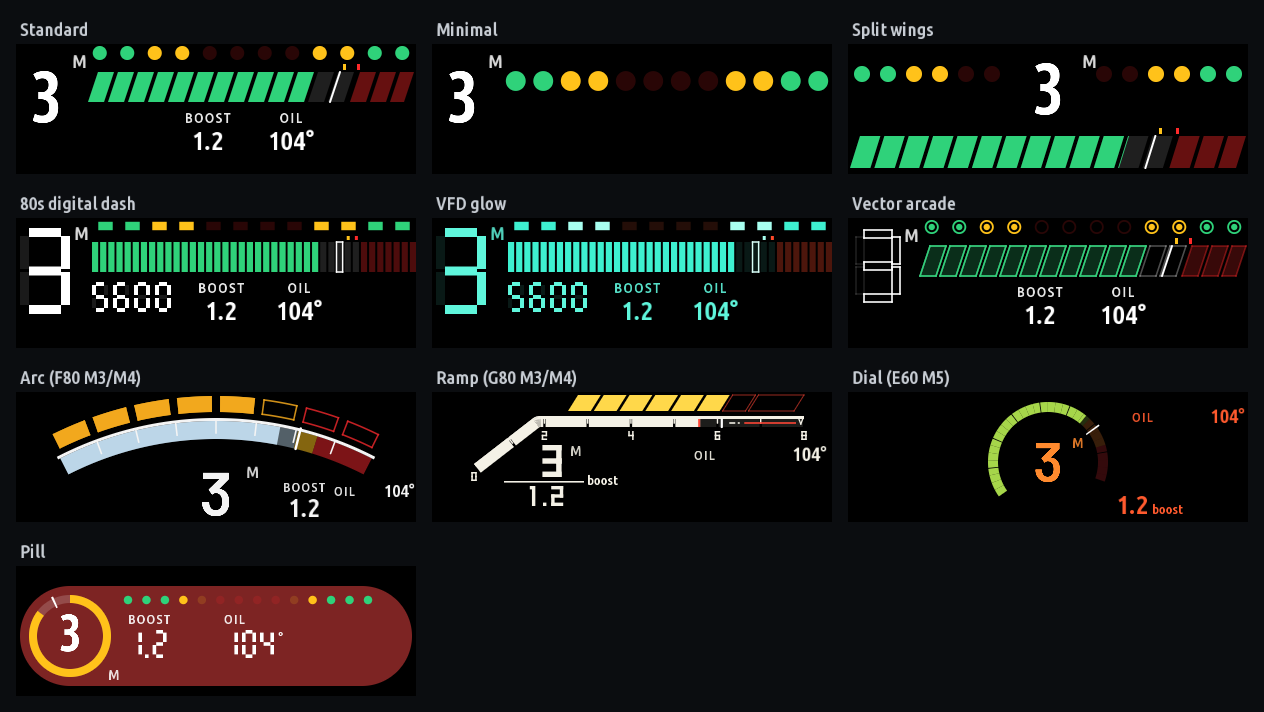
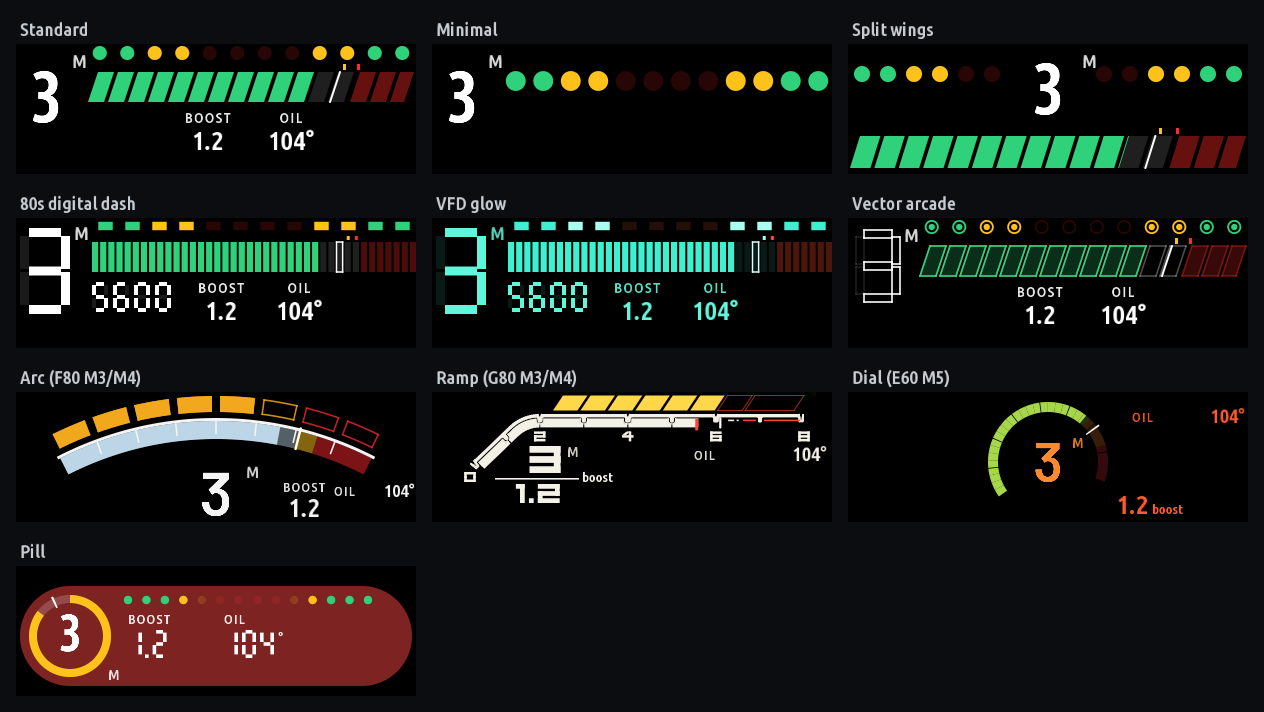
Redline 2.0.24: Ramp's gauge matched to the G80 frame by frame
- A solid rail with a rounded tab hanging every 1,000 rpm (straight walls, a
  round bottom); a V cut into the rail over the numbered marks (0, 2, 4, 6, 8),
  the odd marks' tabs a little narrower; each end an open cup.
- A hairline gap between rail and band that wraps each tab and splits the band
  under it; nothing drawn past the revs (no grey band).
- A wide knee, the climb at about 44 degrees, 2,000 rpm where the bend meets
  the flat; the band a little thicker.
- Wide, bold squared digits (about 1.2 times as wide as tall); the 4 closed.
- The red zone broken round the tabs and running into the 8's cup; a wider
  needle reaching under the band; the shift bars from about 2.3k, closer to
  the rail.
- The scaled HUD canvas gains stroke(); light test and power bar bounds
  follow the new geometry; README text, layout still and HUD gif redone.

Changed region(s): [[0.3703, 0.5562, 0.6479, 0.7107]]

diff --git a/apps/redline/hud-m.js b/apps/redline/hud-m.js
@@ -234,19 +234,20 @@ function drawArc(cv, f, layer, h) {
 /* ---------- ramp (G80) ---------- */
 /*
  * 2.0.21, redrawn from a video of the G80's own HUD. The gauge is one thick rail with no bottom edge: it climbs from
- * the 0 at bottom left, bends round a rounded knee at the 2 and runs flat to the end, a T notch hanging under it every
- * 1,000 rpm and a small V at each end. The rpm hangs under the rail as a cream band up to a red sliver; past it only
- * the rail shows. The red zone is a thin red line inside the band, after a dash and a dot. Over the flat part a row
+ * the 0 at bottom left, bends round a wide knee at the 2 and runs flat to the end, a rounded tab hanging from it every
+ * 1,000 rpm (a V cut over the numbered ones, an open cup at each end: rRail). The rpm hangs under the rail as a cream
+ * band up to a red sliver, a hairline gap round each tab (rBand); past it only the rail shows. The red zone is a thin red line inside the band, after a dash and a dot. Over the flat part a row
  * of 8 slanted bars counts in to the shift (6 yellow, 1 red, then a red one twice as wide) and flashes all red at it.
  * Digits are squared (sqText, our own), the gear left of centre over a line, the first readout under it.
  */
 // the rail's top edge: from (x0, y0) up to the knee (kx, ky), then flat to x1; rt the rail, ft the band under it,
 // kr the knee's radius
 // (the climb a little short of 2,000 rpm, so the 2 sits under the flat clear of it, as on the G80)
-const RP = { x0: 42, y0: 72, kx: 104, ky: 24, x1: 372, rt: 3, ft: 8, kr: 12 };
+// rt: where the band starts under the rail's top edge (the rail 2.4 px, then a 0.9 px gap, as on the glass)
+const RP = { x0: 38, y0: 72, kx: 90, ky: 22, x1: 372, rt: 4.4, ft: 9, kr: 44 };
 const RC = { line: '#f4f1e6', fill: '#f4f1e6', yellow: '#ffd84a', red: '#ff4636', text: '#f4f1e6' };
 // the lights over the flat part: 8 bars (the last twice as wide), leaning right by slant
-const RL = { x0: 136, x1: 372, y0: 3, y1: 19, gap: 3, slant: 10, n: 8 };
+const RL = { x0: 121, x1: 372, y0: 3.5, y1: 18.5, gap: 3, slant: 10, n: 8 };
 /** The rail's path (points, their normals pointing under it, the length to each), worked out once. */
 const RPATH = (() => {
     const P0 = [RP.x0, RP.y0], K = [RP.kx, RP.ky], E = [RP.x1, RP.ky];
@@ -254,7 +255,7 @@ const RPATH = (() => {
     const turn = Math.acos(u[0]), dk = RP.kr * Math.tan(turn / 2);
     const T1 = [K[0] - u[0] * dk, K[1] - u[1] * dk], C = [K[0] + dk, K[1] + RP.kr];
     const pts = [P0, T1];
-    const a0 = Math.atan2(T1[1] - C[1], T1[0] - C[0]), a1 = -Math.PI / 2, N = 6;
+    const a0 = Math.atan2(T1[1] - C[1], T1[0] - C[0]), a1 = -Math.PI / 2, N = 16;
     for (let i = 1; i <= N; i++) { const a = a0 + (a1 - a0) * i / N; pts.push([C[0] + RP.kr * Math.cos(a), C[1] + RP.kr * Math.sin(a)]); }
     pts.push(E);
     const len = [0];
@@ -285,20 +286,126 @@ function rStrip(cv, s0, s1, d0, d1, c) {
     const pts = [rAtS(s0)];
     RPATH.len.forEach((l, i) => { if (l > s0 + 0.01 && l < s1 - 0.01) { const p = RPATH.pts[i], n = RPATH.ptN[i]; pts.push([p[0], p[1], n[0], n[1]]); } });
     pts.push(rAtS(s1));
-    for (let i = 1; i < pts.length; i++) cv.quad([off(pts[i - 1], d0), off(pts[i], d0), off(pts[i], d1), off(pts[i - 1], d1)], c);
+    // (each quad reaches 0.4 px past an inner joint into the next: no hairline seams fanning round the knee)
+    const ext = (p, q, k) => { const dx = q[0] - p[0], dy = q[1] - p[1], l = Math.hypot(dx, dy) || 1; return [p[0] + dx / l * k, p[1] + dy / l * k, p[2], p[3]]; };
+    for (let i = 1; i < pts.length; i++) {
+        const a = i > 1 ? ext(pts[i - 1], pts[i], -0.4) : pts[i - 1], b = i < pts.length - 1 ? ext(pts[i], pts[i - 1], -0.4) : pts[i];
+        cv.quad([off(a, d0), off(b, d0), off(b, d1), off(a, d1)], c);
+    }
 }
 /** A short stroke across the band at s (from d0 to d1 px under the rail). */
 function rTick(cv, s, d0, d1, w, c) { const p = rAtS(s), a = off(p, d0), b = off(p, d1); cv.line(a[0], a[1], b[0], b[1], w, c); }
+/*
+ * The rail and band as on the G80's glass: a solid rail along the top; at every 1,000 rpm (and at each end) a small
+ * rounded tab hangs from it (straight sides, a round bottom, soft shoulders); under it a hairline gap, then the band
+ * (the revs). The gap runs round each tab and on down to the band's bottom as the split, so the dark line reads as a
+ * U with a stem under it. At the numbered marks (0, 2, 4, 6, 8) a small V is cut into the rail's top over the tab (the
+ * hollow); the 1,000s between have no V and a slightly narrower tab.
+ * RD: the rail's thickness; the tab's half-width (numbered, between), bottom corners' radius, depth under the rail and
+ * shoulder radius;
+ * the V's half-width and depth; the gap; the split's half-width.
+ */
+const RD = { rt: 3.4, uw: 2.7, uwOdd: 2.1, rb: 1.5, td: 4.8, rf: 0.3, vw: 1.5, vd: 3.0, endVw: 1.5, endVd: 6.4, gap: 1.0, split: 0.55 };
+const RW = RD.uw + RD.rf;     // a numbered tab's half-width with its shoulders (the widest)
+/** The marks along the rail: { s (px), big (numbered: a V and the wider tab) }, one every 1,000 rpm and one at each end. */
+function rMarks(max) {
+    const lab = max <= 9000 ? 2000 : 3000, m = [{ s: RW, big: true, end: true }];
+    for (let r = 1000; r < max; r += 1000) m.push({ s: rS(r, max), big: r % lab === 0 });
+    m.push({ s: RPATH.all - RW, big: true, end: true });
+    return m;
+}
+/** How far a tab reaches under the rail at t px from its middle: the round bottom, the straight sides, the shoulders. */
+function rTab(t, big) {
+    const a = Math.abs(t), uw = big ? RD.uw : RD.uwOdd, w = uw + RD.rf;
+    if (a <= uw - RD.rb) return RD.td;
+    if (a <= uw) { const k = a - (uw - RD.rb); return RD.td - RD.rb + Math.sqrt(RD.rb * RD.rb - k * k); }
+    if (a < w) return RD.rf - Math.sqrt(Math.max(0, RD.rf * RD.rf - (w - a) * (w - a)));
+    return 0;
+}
+/** The V cut into the rail's top at t px from a numbered mark's middle (0 beyond it). */
+// (soft: a cosine dip; at the ends a deep cup cut down through the tab, so the line ends in an open V / U)
+const rVee = (t, m) => { const w = m.end ? RD.endVw : RD.vw, d = m.end ? RD.endVd : RD.vd; return Math.abs(t) < w ? d * (1 + Math.cos(Math.PI * t / w)) / 2 : 0; };
+/** The tabs grown by the gap: where the band's top must stay (px under the rail's bottom) at s. */
+function rTabGap(ms, s) {
+    let best = 0;
+    ms.forEach((m) => {
+        if (Math.abs(s - m.s) > RW + RD.gap) return;
+        for (let k = -4; k <= 4; k++) { const du = RD.gap * k / 4; best = Math.max(best, rTab(s - m.s + du, m.big) + Math.sqrt(RD.gap * RD.gap - du * du) - RD.gap); }
+    });
+    return best;
+}
+/** The points s0..s1 along the rail to draw through: its bends, and every 0.2 px across a tab. */
+function rSamples(ms, s0, s1) {
+    const ss = [s0, s1];
+    RPATH.len.forEach((l) => { if (l > s0 && l < s1) ss.push(l); });
+    ms.forEach((m) => {
+        for (let v = Math.max(s0, m.s - RW - RD.gap); v <= Math.min(s1, m.s + RW + RD.gap); v += 0.2) ss.push(v);
+        const uw = m.big ? RD.uw : RD.uwOdd;
+        [-uw - 0.02, -uw + 0.02, uw - 0.02, uw + 0.02].forEach((d) => { if (m.s + d > s0 && m.s + d < s1) ss.push(m.s + d); });
+    });
+    return ss.sort((p, q) => p - q).filter((v, i, a) => i === 0 || v - a[i - 1] > 0.05);
+}
+/** A strip s0..s1 whose top (d0) and bottom (d1) are functions of s, as quads each reaching 0.8 px into the next. */
+function rStripF(cv, ss, d0, d1, c) {
+    for (let k = 1; k < ss.length; k++) {
+        // (0.8 px where the edges run straight on, 0.35 px round a curve, none across a wall: there it would slant it)
+        const end = ss[ss.length - 1], at = (r) => Math.min(end, ss[k] + r);
+        const step = (r) => Math.max(Math.abs(d0(at(r)) - d0(ss[k])), Math.abs(d1(at(r)) - d1(ss[k])));
+        const reach = k === ss.length - 1 ? 0 : step(0.8) < 0.05 ? 0.8 : step(0.35) < 0.6 ? 0.35 : 0;
+        const p0 = ss[k - 1], p1 = at(reach), q0 = rAtS(p0), q1 = rAtS(p1);
+        if (d1(p0) - d0(p0) < 0.05 && d1(p1) - d0(p1) < 0.05) continue;
+        cv.quad([off(q0, d0(p0)), off(q1, d0(p1)), off(q1, d1(p1)), off(q0, d1(p0))], c);
+    }
+}
+/**
+ * A strip a..b from d0 (a function of s near the marks ms, plain0 elsewhere) to d1: plain strips away from the marks
+ * (clean edges), rStripF within z px of one (the shaped edge).
+ */
+function rStripZ(cv, ms, a, b, z, d0, plain0, d1, c) {
+    let v = a;
+    ms.filter((m) => m.s + z > a && m.s - z < b).forEach((m) => {
+        const z0 = Math.max(a, m.s - z), z1 = Math.min(b, m.s + z);
+        if (z0 > v) rStrip(cv, v, z0 + 0.4, plain0, d1, c);
+        rStripF(cv, rSamples([m], z0, z1), d0, () => d1, c);
+        v = z1 - 0.4;
+    });
+    if (b > v) rStrip(cv, Math.max(a, v), b, plain0, d1, c);
+}
+function rRail(cv, max, c) {
+    const ms = rMarks(max), big = ms.filter((m) => m.big);
+    // the rail, its top cut into a V at the numbered marks
+    const vee = (v) => big.reduce((a, m) => Math.max(a, rVee(v - m.s, m)), 0);
+    rStripZ(cv, big, 0, RPATH.all, RW + 0.5, (v) => Math.min(RD.rt, vee(v)), 0, RD.rt, c);
+    // the tabs (from a hair inside the rail, so they join it seamlessly)
+    ms.forEach((m) => rStripF(cv, rSamples([m], m.s - RW, m.s + RW), (v) => Math.max(RD.rt - 0.6, vee(v)), (v) => Math.max(vee(v), RD.rt + rTab(v - m.s, m.big)), c));
+}
+/** The band up to s1 (the revs), split at each mark; its top keeps the gap to the rail and round each tab. */
+function rBand(cv, s1, max, c) {
+    const ms = rMarks(max), D1 = RP.rt + RP.ft, top = (v) => Math.min(D1, RD.rt + RD.gap + rTabGap(ms, v));
+    const L = RD.rt + RD.gap + RD.td + 0.6;
+    for (let i = 0; i < ms.length - 1; i++) {
+        // (the ends' tabs: the band starts and stops clear of them, no split piece under them)
+        const a = i === 0 ? ms[0].s + RW + RD.gap : ms[i].s + RD.split;
+        const b = Math.min(s1, i === ms.length - 2 ? ms[i + 1].s - RW - RD.gap : ms[i + 1].s - RD.split);
+        if (b <= a) continue;
+        // under the tabs' reach one clean strip; above it, plain where no tab is near and following the tabs where one is
+        rStrip(cv, a, b, L, D1, c);
+        rStripZ(cv, ms, a, b, RW + RD.gap + 0.3, top, RP.rt, L + 0.6, c);
+    }
+}
 
 /*
  * Squared digits (our own drawing, after the G80's look): 7-segment strokes joined at the corners, solid, plus
  * N P R D M S. h tall, a width of 0.6 h, the stroke t. Returns false (drawing nothing) for a character it has no
  * shape for.
  */
-const SQ = { 0: 'abcdef', 2: 'abged', 3: 'abgcd', 4: 'fgbc', 5: 'afgcd', 6: 'afgedc', 7: 'abc', 8: 'abcdefg', 9: 'abfgcd', '-': 'g', S: 'afgcd', P: 'abfge', N: 'efbc', R: 'abfge', M: 'efabc', D: 'abcdef' };
+const SQ = { 0: 'abcdef', 2: 'abged', 3: 'abgcd', 4: 'g', 5: 'afgcd', 6: 'afgedc', 7: 'abc', 8: 'abcdefg', 9: 'abfgcd', '-': 'g', S: 'afgcd', P: 'abfge', N: 'efbc', R: 'abfge', M: 'efabc', D: 'abcdef' };
+/** A character's width at h: wide (the G80's digits are about 1.2 times as wide as tall); a 1 and a dot narrow. */
+const sqAdv = (ch, h) => (ch === '.' ? sqT(h) : ch === '1' ? h * 0.55 : h * 1.15);
+const sqT = (h) => Math.max(1.9, h * 0.25);
 function sqGlyph(cv, ch, x, y, h, c) {
-    const w = h * 0.6, t = Math.max(1.4, h * 0.17), hh = h / 2;
-    if (ch === '1') { cv.fillRect(x + w * 0.62 - t / 2, y, t, h, c); cv.fillRect(x + w * 0.3, y, w * 0.32, t, c); return true; }
+    const w = sqAdv(ch, h), t = sqT(h), hh = h / 2;
+    if (ch === '1') { cv.fillRect(x + w - t, y, t, h, c); cv.fillRect(x + w * 0.15, y, w * 0.85, t, c); return true; }
     const on = SQ[ch];
     if (on === undefined) return false;
     const R = {
@@ -314,12 +421,19 @@ function sqGlyph(cv, ch, x, y, h, c) {
     // N, R: a diagonal; M: a stem down the middle
     const diag = (x0, y0, x1, y1) => cv.quad([[x0, y0], [x0 + t * 1.1, y0], [x1, y1], [x1 - t * 1.1, y1]], c);
     if (ch === 'N') diag(x + t * 0.4, y, x + w - t * 0.4, y + h);
-    if (ch === 'R') diag(x + w * 0.35, y + hh, x + w - t * 0.1 + t * 0.55, y + h);
+    if (ch === 'R') diag(x + w * 0.35, y + hh, x + w + t * 0.45, y + h);
     if (ch === 'M') cv.fillRect(x + w / 2 - t / 2, y, t, hh, c);
+    // 4: a slant from the right stem's top down to the bar's left end (the G80's closed 4)
+    if (ch === '4') {
+        const sx = x + w * 0.8 - t;     // the stem, with the bar running past it
+        cv.fillRect(sx, y, t, h, c);
+        cv.quad([[sx - t * 0.9, y], [sx + t * 0.6, y], [x + t * 1.6, y + hh - t / 2], [x, y + hh - t / 2]], c);
+    }
     return true;
 }
+const SQ_GAP = 0.22;
 /** The width sqText takes for str at h. */
-const sqWidth = (str, h) => { const n = String(str).length; return n ? n * h * 0.6 + (n - 1) * h * 0.24 - (String(str).indexOf('.') >= 0 ? h * 0.5 : 0) : 0; };
+const sqWidth = (str, h) => { str = String(str); let w = 0; for (const ch of str) w += sqAdv(ch, h); return str.length ? w + (str.length - 1) * h * SQ_GAP : 0; };
 /**
  * str in squared digits, top at y, h tall, from x (align 'left' | 'center' | 'right'). Characters it has no shape
  * for end it: the rest is drawn in the bold font (a unit such as °).
@@ -333,11 +447,10 @@ function sqText(cv, str, x, y, h, c, align) {
     const wAll = sqWidth(head, h) + tailW;
     let px = align === 'center' ? x - wAll / 2 : align === 'right' ? x - wAll : x;
     for (const ch of head) {
-        if (ch === '.') { const t = Math.max(1.4, h * 0.17); cv.fillRect(px, y + h - t, t, t, c); px += t + h * 0.24; continue; }
-        sqGlyph(cv, ch, px, y, h, c);
-        px += h * 0.6 + h * 0.24;
+        if (ch === '.') cv.fillRect(px, y + h - sqT(h), sqT(h), sqT(h), c); else sqGlyph(cv, ch, px, y, h, c);
+        px += sqAdv(ch, h) + h * SQ_GAP;
     }
-    if (tail) cv.text(tail, px - h * 0.24 + 2, y + h * 0.6, h * 0.6, c, { font: 'bold' });
+    if (tail) cv.text(tail, px - h * SQ_GAP + 2, y + h * 0.6, h * 0.6, c, { font: 'bold' });
 }
 
 /*
@@ -376,44 +489,41 @@ function drawRamp(cv, f, layer, h) {
     const meter = (f.readouts || []).filter((it) => it.bar)[0];
     // with the meter under the band, the scale and everything under it 5 px lower
     const dn = meter ? 5 : 0, sq = o.gearFont === 'square';
-    const D0 = RP.rt, D1 = RP.rt + RP.ft, GAP = 1.2;
+    const D0 = RP.rt, D1 = RP.rt + RP.ft;
     // the gauge: Rev bar off leaves the lights and the gear (the lights are their own row since 2.0.21)
     if (o.bar !== false) {
         if (BG) {
-            // the rail, its notches and the V at each end
-            rStrip(cv, 0, RPATH.all, 0, RP.rt, RC.line);
-            for (let r = 1000; r < max; r += 1000) rTick(cv, rS(r, max), RP.rt - 0.5, RP.rt + 4, 1.5, RC.line);
-            // a small V hooked under the rail at each end, from the rail's middle and inside its length, so no cap
-            // sticks out past it (the 0's is under the band once it's lit, as on the G80)
-            [0.7, RPATH.all - 5.7].forEach((s) => {
-                const a = off(rAtS(s), RP.rt / 2), b = off(rAtS(s + 5), RP.rt / 2), tip = off(rAtS(s + 2.5), RP.rt + 5);
-                cv.line(a[0], a[1], tip[0], tip[1], 1.3, RC.line);
-                cv.line(b[0], b[1], tip[0], tip[1], 1.3, RC.line);
-            });
-            if (o.dim) for (let r = 0; r < max; r += 1000) rStrip(cv, rS(r, max) + GAP, rS(Math.min(max, r + 1000), max) - GAP, D0, D1, withAlpha(RC.line, 0.12));
+            // the rail, its notches and the V at each end all one line; under it nothing until the revs reach it (clear,
+            // as on the G80: no grey band)
+            rRail(cv, max, RC.line);
             // the red zone: a thin red line inside the band from the redline, after a dash and a dot
-            const zs = rS(f.redline, max), zm = (D0 + D1) / 2;
+            const zs = rS(f.redline, max), zm = D0 + 2;
             if (zs < RPATH.all - 6) {
-                rStrip(cv, zs + 3, RPATH.all - 8, zm - 0.8, zm + 0.8, RC.red);
-                rStrip(cv, zs - 12, zs - 6, zm - 0.8, zm + 0.8, RC.line);
-                rStrip(cv, zs - 3.5, zs - 1.5, zm - 0.8, zm + 0.8, RC.line);
+                // (each piece broken round any tab it would cross, so a tab stands clear of it)
+                const ms = rMarks(max), clear = RW + RD.gap;
+                const seg = (a, b, col) => {
+                    let v = a;
+                    const piece = (p, q) => { if (q - p >= 3 || col !== RC.red) rStrip(cv, p, q, zm - 0.8, zm + 0.8, col); };
+                    ms.filter((m) => !m.end && m.s + clear > a && m.s - clear < b).forEach((m) => { if (m.s - clear > v) piece(v, m.s - clear); v = Math.max(v, m.s + clear); });
+                    if (b > v) piece(v, b);
+                };
+                seg(zs + 3, RPATH.all - RW - RD.endVw + 0.4, RC.red);
+                seg(zs - 12, zs - 6, RC.line);
+                seg(zs - 3.5, zs - 1.5, RC.line);
             }
             // the scale under the band; the 0 under the climb's start
             const lab = max <= 9000 ? 2000 : 3000;
             for (let r = 0; r <= max; r += lab) {
                 const p = rAtS(rS(r, max)), x = r === 0 ? p[0] : p[0], y = r === 0 ? p[1] + 8 + dn : RP.ky + D1 + 4 + dn;
-                sqText(cv, String(r / 1000), x, y, 9, RC.text, 'center');
+                sqText(cv, String(r / 1000), x, y, 10, RC.text, 'center');
             }
         }
         if (fg && isNum(d.rpm) && d.rpm > 50) {
             // the rpm: the band under the rail, split at the notches, a red sliver at its end
             const top = Math.min(d.rpm, max), st = rS(top, max);
             const pop = burstOn(f.chip, 300) ? chipCol(f.chip, h.P) : null, c = pop || RC.fill;
-            for (let r = 0; r < top; r += 1000) {
-                const a = rS(r, max) + (r > 0 ? GAP : 0), b = Math.min(st, rS(Math.min(max, r + 1000), max) - GAP);
-                if (b > a) rStrip(cv, a, b, pop ? D0 : 0, D1, c);
-            }
-            if (st > 3) rStrip(cv, st - 2, st, D0, D1, RC.red);
+            rBand(cv, st, max, c);
+            if (st > 3) rStrip(cv, st - 3, st, D0, D1 + 3, RC.red);
         }
         if (fg && isNum(f.peak) && f.peak > 0 && !(isNum(d.rpm) && d.rpm >= f.peak - 50)) rTick(cv, rS(Math.min(f.peak, max), max), D0, D1, 2.2, '#ffffff');
     }
@@ -431,26 +541,26 @@ function drawRamp(cv, f, layer, h) {
     }
     if (meter) rampMeter(cv, meter.bar, h.P, layer, max);
     if (!fg) return;
-    const gx = 120, gy = 53 + dn, items = (f.readouts || []).filter((it) => !it.bar);
+    const gx = 113, gy = 54 + dn, items = (f.readouts || []).filter((it) => !it.bar);
     if (f.chip) ring(cv, gx, gy + 16, 20, 50, f.chip, h.P);
     // readouts 2-4: a list on the right, label left and value right
     [1, 2, 3].forEach((i, k) => { if (items[i]) small(cv, 262, 68 + dn + k * 21, items[i], h.P, o, RC.text, 'row', 132); });
     const gearC = cue.limiter && f.blink ? RC.red : RC.text;
     if (o.gear) {
-        if (sq) sqText(cv, h.gearText(d), gx, gy, 32, gearC, 'center');
+        if (sq) sqText(cv, h.gearText(d), gx, gy, 27, gearC, 'center');
         else cv.text(h.gearText(d), gx, gy + 32, 42, gearC, { align: 'center', font: h.gearFont(o) });
     }
-    if (f.mode && o.gear) cv.text(f.mode, gx + 18, gy + 11, 14, withAlpha(RC.text, 0.85), { font: 'bold' });
-    cv.fillRect(gx - 48, gy + 36, 80, 1.6, RC.text);
+    if (f.mode && o.gear) cv.text(f.mode, gx + 22, gy + 11, 14, withAlpha(RC.text, 0.85), { font: 'bold' });
+    cv.fillRect(gx - 50, gy + 32, 84, 1.6, RC.text);
     h.drawDown(cv, gx + 58, gy + 6, f.down || 0, 1, h.P.arrow);
     if (f.chip) grade(cv, gx, gy + 62, f.chip, h.P, 22);
     else {
         const it = items[0];
         if (it) {
             const vc = toneCol(it, h.P, RC.text);
-            if (sq) sqText(cv, it.value, gx - 8, gy + 41, 20, vc, 'center');
+            if (sq) sqText(cv, it.value, gx - 8, gy + 38, 19, vc, 'center');
             else cv.text(it.value, gx - 8, gy + 62, 22, vc, { align: 'center', font: o.valFont || 'bold' });
-            fitLabel(cv, it.label.toLowerCase(), gx + 35, gy + 40, labelOf(o, RC.text).s, RC.text, 262 - gx - 40, { spacing: 0 });
+            fitLabel(cv, it.label.toLowerCase(), gx + 37, gy + 36, labelOf(o, RC.text).s, RC.text, 262 - gx - 40, { spacing: 0 });
         }
     }
 }

diff --git a/kit/tools/test_redline_hud.js b/kit/tools/test_redline_hud.js
@@ -415,9 +415,9 @@ for (let t = 0; t < Hud.DEMO_MS * 3; t += 37) {
             const cv = new Canvas(Draw.IW, Draw.IH);
             Draw.drawLayer(cv, { d: { rpm: rpm, gear: 3, stage: 'M' }, shift: 6400, redline: 6800, max: 8000, blink: blink !== false,
                 cue: { from: 4800, at: 6400, shift: !!shift, limiter: false }, down: 0, peak: 0, chip: null, readouts: [], mode: null, opts: ro }, 'fg');
-            // each bar's middle: x from 136 to 372, the last twice as wide; y 11
-            const unit = (372 - 136 - 10 - 7 * 3) / 9, out = [];
-            for (let i = 0, x = 136; i < 8; i++) { const w = i === 7 ? 2 * unit : unit; const px = Math.round(x + w / 2 + 5), o = (11 * cv.w + px) * 4;
+            // each bar's middle: x from 121 to 372, the last twice as wide; y 11
+            const unit = (372 - 121 - 10 - 7 * 3) / 9, out = [];
+            for (let i = 0, x = 121; i < 8; i++) { const w = i === 7 ? 2 * unit : unit; const px = Math.round(x + w / 2 + 5), o = (11 * cv.w + px) * 4;
                 out.push(cv.d[o + 3] < 128 ? '.' : cv.d[o] > 200 && cv.d[o + 1] < 120 ? 'R' : cv.d[o] > 200 && cv.d[o + 1] > 180 && cv.d[o + 2] < 140 ? 'Y' : '?'); x += w + 3; }
             return out.join('');
         };
@@ -429,7 +429,7 @@ for (let t = 0; t < Hud.DEMO_MS * 3; t += 37) {
         ok(bar(6500, true, true) === 'RRRRRRRR' && bar(6500, true, false) === '........', 'ramp: all red at the shift, flashing (' + bar(6500, true, true) + ' / ' + bar(6500, true, false) + ')');
         const noLights = Object.assign({}, ro, { lights: false }), cv = new Canvas(Draw.IW, Draw.IH);
         Draw.drawLayer(cv, { d: { rpm: 6400, gear: 3, stage: 'M' }, shift: 6400, redline: 6800, max: 8000, blink: true, cue: { from: 4800, at: 6400, shift: false, limiter: false }, down: 0, peak: 0, chip: null, readouts: [], mode: null, opts: noLights }, 'fg');
-        let any = 0; for (let y = 2; y < 20; y++) for (let x = 136; x < 372; x++) if (cv.d[(y * cv.w + x) * 4 + 3] > 128) any++;
+        let any = 0; for (let y = 2; y < 20; y++) for (let x = 121; x < 372; x++) if (cv.d[(y * cv.w + x) * 4 + 3] > 128) any++;
         ok(any === 0, 'ramp: HUD lights Off hides the bars');
     }
     // placement and the windshield's window

diff --git a/kit/tools/test_redline_powerbar.js b/kit/tools/test_redline_powerbar.js
@@ -74,7 +74,7 @@ const mostly = (cols, col) => cols.length > 0 && cols.filter((c) => isCol(c, col
     {
         const a = layer(frame('ramp', [BO, pw(-20), OIL]), 'bg'), b = layer(frame('ramp', [BO, OIL]), 'bg');
         const d = diff(a, b, 0, 129);
-        ok(d.n > 0 && d.maxX <= 375, 'ramp bg: only the meter track differs (x ' + d.minX + '..' + d.maxX + ')');
+        ok(d.n > 0 && d.maxX <= 380, 'ramp bg: only the meter track differs (x ' + d.minX + '..' + d.maxX + ')');
         // fg: the gear and the list move 5 px down with the meter, clear of it
         const top = (cv, x0, x1) => { for (let y = 0; y < cv.h; y++) for (let x = x0; x < x1; x++) if (y > 36 && cv.d[(y * cv.w + x) * 4 + 3] > 128) return y; return -1; };
         const fa = layer(frame('ramp', [BO, pw(0), OIL]), 'fg'), fb = layer(frame('ramp', [BO, OIL]), 'fg');
@@ -85,7 +85,7 @@ const mostly = (cols, col) => cols.length > 0 && cols.filter((c) => isCol(c, col
     const rec = fill(-20), pwr = fill(40), full = fill(80), none = fill(0);
     ok(none.n === 0, 'ramp: 0 kW fills nothing');
     ok(rec.n > 0 && rec.maxX <= 116 && rec.minX >= 60 && rec.cols.filter((c) => isCol(c, P.low)).length >= 20, 'ramp: -20 kW fills half way down the climb, green (x ' + rec.minX + '..' + rec.maxX + ')');
-    ok(pwr.n > 0 && pwr.minX >= 100 && pwr.maxX > 220 && pwr.maxX < 250 && mostly(pwr.cols.filter((c) => c[3] > 200), '#f4f1e6'), 'ramp: +40 kW fills half way along the flat (x ' + pwr.minX + '..' + pwr.maxX + ')');
+    ok(pwr.n > 0 && pwr.minX >= 90 && pwr.maxX > 220 && pwr.maxX < 250 && mostly(pwr.cols.filter((c) => c[3] > 200), '#f4f1e6'), 'ramp: +40 kW fills half way along the flat (x ' + pwr.minX + '..' + pwr.maxX + ')');
     // (a 4 px strip: judged on its solid pixels, the edges are half blended)
     ok(full.maxX >= 370 && mostly(full.cols.filter((c) => c[3] > 200), '#ffd84a'), 'ramp: +80 kW fills the flat to the end, yellow');
     ok(fill(-100).minX >= 40 && fill(200).maxX <= 375, 'ramp: beyond lo / hi stays inside the track');

diff --git a/apps/redline/hud-draw.js b/apps/redline/hud-draw.js
@@ -507,6 +507,8 @@ function scaled(r, k, ox, oy) {
         fillRect: (x, y, w, h, c) => r.fillRect(X(x), Y(y), w * k, h * k, c),
         quad: (pts, c) => r.quad(P(pts), c),
         polyline: (pts, w, c) => r.polyline(P(pts), w * k, c),
+        // a path with round joins (Ramp's rail); a plain polyline where the canvas has no stroke
+        stroke: (pts, w, c) => (r.stroke ? r.stroke(P(pts), w * k, c) : r.polyline(P(pts), w * k, c)),
         line: (xa, ya, xb, yb, w, c) => r.line(X(xa), Y(ya), X(xb), Y(yb), w * k, c),
         text: (s, x, y, size, c, o) => r.text(s, X(x), Y(y), size * k, c, o && o.spacing ? Object.assign({}, o, { spacing: o.spacing * k }) : o),
         roundRect: (x, y, w, h, rad, c) => r.roundRect(X(x), Y(y), w * k, h * k, rad * k, c),

diff --git a/apps/redline/README.md b/apps/redline/README.md
@@ -82,9 +82,11 @@ Three layouts after BMW M's own head-up displays, in their colours (*Colours* do
   1000 rpm, ending in a yellow then red zone; the gear big under it. Readouts: the first beside the
   gear, two more at the far right, a fourth high on the left.
 - **Ramp** (after the G80 / G82 M3 and M4, redrawn in 2.0.21 from a video of the car's HUD): a thick
-  rail climbs from the 0 at the bottom left, bends round at the 2 and runs flat to the 8, a notch
-  under it every 1000 rpm. The revs hang under the rail as a warm white band up to a red sliver; past
-  them only the rail shows. A thin red line inside the band marks the redline. Over the flat part 8
+  rail climbs from the 0 at the bottom left, bends round at the 2 and runs flat to the 8. A small
+  rounded tab hangs from it every 1000 rpm, with a V cut into the rail over the numbered ones (0, 2,
+  4, 6, 8) and each end an open cup. The revs hang under the rail as a warm white band up to a red
+  sliver, a hairline gap wrapping each tab and splitting the band under it; past the revs the gauge
+  is clear, only the rail. A thin red line inside the band marks the redline. Over the flat part 8
   slanted shift lights (6 yellow, 1 red, then a wide red one) appear with the count-in, light left to
   right and flash red at the shift. Squared digits for the scale, the gear and the first readout,
   which sits under a line beneath the gear (where the car shows the speed); the others are listed on
